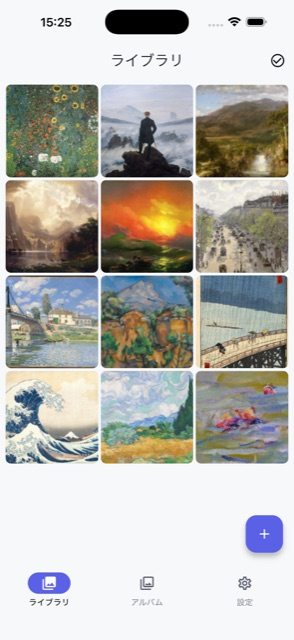
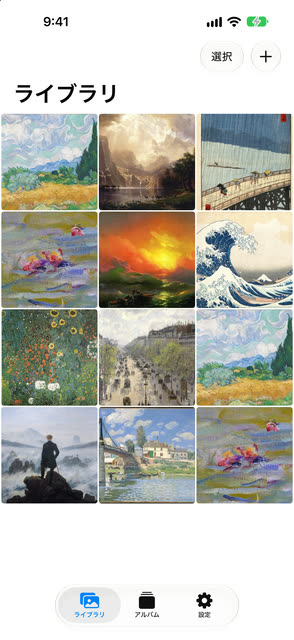
site: the app the page shows is the one that ships now
The screenshots were the old build, and the page still said Veiler was made
for iPhone. Both are replaced with 1.1.0: the lock, the library and the
vaults as they look today, light and dark, and a landscape iPad with its
sidebar beside two lines about what the larger screen buys.

The line under the store badge now names both devices and iOS 18, which is
what this version asks for, and the question "does it work on iPad?" has an
answer instead of a promise.

Claude-Session: https://claude.ai/code/session_01XMfuRbXpg3TAGjyq5xrmen

diff --git a/index.html b/index.html
@@ -2,7 +2,7 @@
 layout: landing
 title: Veiler
 tagline: 写真と動画を、パスコードで守る保管庫
-description: 見られたくない写真と動画を、パスコードのかかった保管庫にしまっておける iOS アプリ。iPhone で無料で使えます。保管したファイルはいつでもまとめて書き出せます。
+description: 見られたくない写真と動画を、パスコードのかかった保管庫にしまっておける iOS アプリ。iPhone と iPad で無料で使えます。保管したファイルはいつでもまとめて書き出せます。
 permalink: /
 lang: ja
 alt_url: /en/
@@ -26,7 +26,7 @@ alt_label: English
     </a>
     <span class="soon-btn" aria-disabled="true">Android 版<br>準備中</span>
   </div>
-  <p class="soon">無料で使えます<br>（iOS 15 以降）</p>
+  <p class="soon">無料で使えます<br>iPhone・iPad（iOS 18 以降）</p>
   </div>
 </header>
 
@@ -80,6 +80,16 @@ alt_label: English
 </section>
 
 <section>
+  <h2>iPad にも対応</h2>
+  <figure class="ipad">
+    <img class="shot-light" src="{{ '/assets/shot-ipad-light.jpg' | relative_url }}" alt="iPad の横向きの画面。左にサイドバー、右に保管した写真の一覧">
+    <img class="shot-dark" src="{{ '/assets/shot-ipad-dark.jpg' | relative_url }}" alt="iPad の横向きの画面。左にサイドバー、右に保管した写真の一覧">
+  </figure>
+  <p>横向きでは左にサイドバーが出て、ライブラリ・アルバム・設定をすぐ行き来できます。画面が広いぶん、写真も一度に多く並びます。</p>
+  <p>購入は iPhone と共通です。同じ Apple ID なら、どちらの端末でも同じプランで使えます。</p>
+</section>
+
+<section>
   <h2>機能とプラン</h2>
   <div class="cmp-wrap">
     <table class="cmp">
@@ -127,7 +137,7 @@ alt_label: English
   </div>
   <div class="qa">
     <h3><button class="q" type="button"><span class="lbl">iPad でも使えますか。</span></button></h3>
-    <div class="panel"><div><p>現在の Veiler は iPhone 向けに作られており、iPad では iPhone 用の画面のまま動作します。iPad の画面に合わせた表示は準備中です。</p></div></div>
+    <div class="panel"><div><p>使えます。iPad では画面の横にサイドバーが出て、横向きにも対応します。購入は iPhone と共通で、同じ Apple ID なら両方で使えます。</p></div></div>
   </div>
   <div class="qa">
     <h3><button class="q" type="button"><span class="lbl">Android 版はいつ出ますか。</span></button></h3>

diff --git a/en/index.html b/en/index.html
@@ -2,7 +2,7 @@
 layout: landing
 title: Veiler
 tagline: A passcode-locked vault for your photos and videos
-description: An iOS app that keeps the photos and videos you would rather not have seen in a passcode-locked vault. Free on iPhone. Everything you store can be exported again at any time.
+description: An iOS app that keeps the photos and videos you would rather not have seen in a passcode-locked vault. Free on iPhone and iPad. Everything you store can be exported again at any time.
 permalink: /en/
 lang: en
 alt_url: /
@@ -26,7 +26,7 @@ alt_label: 日本語
     </a>
     <span class="soon-btn" aria-disabled="true">Android<br>coming soon</span>
   </div>
-  <p class="soon">Free to use<br>(iOS 15 or later)</p>
+  <p class="soon">Free to use<br>iPhone and iPad (iOS 18 or later)</p>
   </div>
 </header>
 
@@ -80,6 +80,16 @@ alt_label: 日本語
 </section>
 
 <section>
+  <h2>On iPad too</h2>
+  <figure class="ipad">
+    <img class="shot-light" src="{{ '/assets/shot-ipad-light.jpg' | relative_url }}" alt="An iPad in landscape: a sidebar on the left, the library of stored photos on the right">
+    <img class="shot-dark" src="{{ '/assets/shot-ipad-dark.jpg' | relative_url }}" alt="An iPad in landscape: a sidebar on the left, the library of stored photos on the right">
+  </figure>
+  <p>In landscape a sidebar sits on the left, so the library, albums and settings are one tap apart. The wider the screen, the more photos it shows at once.</p>
+  <p>Purchases are shared with the iPhone: the same Apple ID gives you the same plan on both.</p>
+</section>
+
+<section>
   <h2>Features and plans</h2>
   <div class="cmp-wrap">
     <table class="cmp">
@@ -127,7 +137,7 @@ alt_label: 日本語
   </div>
   <div class="qa">
     <h3><button class="q" type="button"><span class="lbl">Does it work on iPad?</span></button></h3>
-    <div class="panel"><div><p>Veiler is built for iPhone today, and it runs on an iPad using the iPhone layout. A layout made for the iPad screen is on the way.</p></div></div>
+    <div class="panel"><div><p>Yes. On an iPad the tabs become a sidebar, and landscape is supported. Purchases are shared with the iPhone: the same Apple ID unlocks both.</p></div></div>
   </div>
   <div class="qa">
     <h3><button class="q" type="button"><span class="lbl">When is the Android version coming?</span></button></h3>

diff --git a/_layouts/landing.html b/_layouts/landing.html
@@ -192,13 +192,26 @@
   }
   /* Not <picture>: its media query answers to the system only, so a manual
      switch would leave the app's screens in the theme nobody chose. */
-  .shots .shot-dark { display: none; }
+  .shots .shot-dark, .ipad .shot-dark { display: none; }
   @media (prefers-color-scheme: dark) {
-    :root:not([data-theme="light"]) .shots .shot-light { display: none; }
-    :root:not([data-theme="light"]) .shots .shot-dark { display: block; }
+    :root:not([data-theme="light"]) .shots .shot-light,
+    :root:not([data-theme="light"]) .ipad .shot-light { display: none; }
+    :root:not([data-theme="light"]) .shots .shot-dark,
+    :root:not([data-theme="light"]) .ipad .shot-dark { display: block; }
   }
-  :root[data-theme="dark"] .shots .shot-light { display: none; }
-  :root[data-theme="dark"] .shots .shot-dark { display: block; }
+  :root[data-theme="dark"] .shots .shot-light,
+  :root[data-theme="dark"] .ipad .shot-light { display: none; }
+  :root[data-theme="dark"] .shots .shot-dark,
+  :root[data-theme="dark"] .ipad .shot-dark { display: block; }
+
+  /* The one landscape picture on the page: wide, and the width of the text
+     rather than of a phone. */
+  .ipad { margin: 0 0 1.25rem; }
+  .ipad img {
+    width: 100%; height: auto; display: block;
+    border-radius: 14px; border: 1px solid var(--shot-border);
+    box-shadow: var(--shot-shadow);
+  }
   .shots figcaption {
     margin-top: .8rem; font-size: .8rem; color: var(--band-muted);
     text-align: center;
